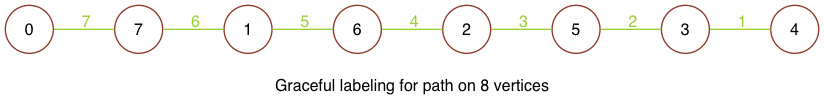
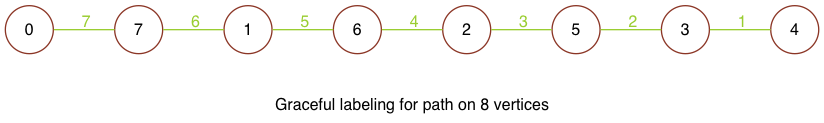
Update k-ary render and add it to README

Changed region(s): [[0.0, 0.0288, 1.0, 0.5192], [0.3337, 0.75, 0.6675, 0.9231]]

diff --git a/render_tree_images.rb b/render_tree_images.rb
@@ -1,21 +1,10 @@
-require_relative 'tree'
-require_relative 'k_ary_tree'
-require_relative 'symmetric_star'
-require_relative 'firecracker_tree'
-require_relative 'star_tree'
-require_relative 'path_tree'
+require_relative 'trees'
 
 
 # labeling = [0, 7, 14, 11, 8, 4, 1, 2, 3, 5, 6, 9, 10, 12, 13]
-# tree = K_aryTree.build(depth: 3, labeling: labeling)
-# tree.render(name: "_graceful", label: "\nGraceful labeling")
+# btree = K_aryTree.build(depth: 3, vdegree: 2, labeling: labeling)
+# btree.render(name: "_graceful", label: "\nGraceful labeling")
 
-
-# btree = K_aryTree.graceful_btree_labelings(3)
-# btree.each do |l|
-#   tree = K_aryTree.build(depth: 3, labeling: l)
-#   tree.render(name: "_graceful", label: "\nGraceful labeling")
-# end
 
 # size = 3
 # labelings = Tree.distinct_labelings(size)
@@ -24,11 +13,18 @@ require_relative 'path_tree'
 
 # Tree.render_all_trees(4)
 
+# SymmetricStar.build(legs: 6, depth: 3).render
+#
 # Star.build(vertices: 8).render
+#
+# Path.build(vertices: 8).render
+#
+# Firecracker.build(path_length: 4, star_vertices: 3).render
 
-Path.build(vertices: 8).render
+# depth, vdegree = 3, 3
+# labeling = (0...(depth ** (vdegree + 1) - 1) / (vdegree - 1)).to_a
+# K_aryTree.build(depth: depth, vdegree: vdegree, labeling: labeling).render
 
-Firecracker.build(path_length: 4, star_vertices: 3).render
-
-
-K_aryTree.build(depth: 2, vdegree: 3, labeling: (0..12).to_a).render
+depth, vdegree = 4, 2
+labeling = (0...31).to_a
+K_aryTree.build(depth: depth, vdegree: vdegree, labeling: labeling).render

diff --git a/symmetric_star.rb b/symmetric_star.rb
@@ -1,6 +1,6 @@
 require_relative 'tree'
 require_relative 'symmetric_star_labeling'
-require 'colorize'
+# require 'colorize'
 
 
 # Theorem: All symmetric star trees are graceful.
@@ -11,8 +11,8 @@ class SymmetricStar < Tree
 
   def self.build(options)
     tree = SymmetricStar.new(options)
-    # labeling = SymmetricStarLabeling.new(tree.legs, tree.depth)
-    labeling = SymmetricStarLabeling.new(options[:legs], options[:depth])
+    labeling = SymmetricStarLabeling.new(tree.legs, tree.depth)
+    # labeling = SymmetricStarLabeling.new(options[:legs], options[:depth])
     labeling.vlabels.each do |labels|
       tree.root.children << SymmetricStar.build_path(labels)
     end
@@ -24,11 +24,10 @@ class SymmetricStar < Tree
     p "already labeled on ::build"
   end
 
-  def render
-    super(
-      label: "\nGraceful labeling",
-      name: "#{legs}#{depth}_symmetric_star"
-    )
+  def render(options = {})
+    options[:name]  ||= "#{legs}#{depth}_symmetric_star"
+    options[:label] ||= "\n\nGraceful labeling"
+    super(options)
   end
 
   def self.build_path(labels)

diff --git a/labeling.rb b/labeling.rb
@@ -1,7 +1,11 @@
 module K_aryLabeling
 
-  def distinct_labelings(depth)
-    (0...2 ** (depth + 1) - 1).to_a.permutation.to_a
+  def distinct_labelings(depth, vdegree)
+    basic_labeling.to_a.permutation.to_a
+  end
+
+  def basic_labeling(depth, vdegree)
+    (0...(depth ** (vdegree + 1) - 1) / (vdegree - 1)).to_a
   end
 
   def graceful_btree_labelings(depth)
@@ -35,18 +39,18 @@ module FirecrackerLabeling
     labels = []
 
     k.times do |i|
-      label = i.even? ? i / 2 * m : (k - (i + 1) / 2) * m
+      label = i.even?  ?  i / 2 * m  :  (k - (i + 1) / 2) * m
       labels << label
     end
 
     k.times do |i|
-      label = i.even? ? (k - i / 2) * m - 1 : (i + 1) / 2 * m - 1
+      label = i.even?  ?  (k - i / 2) * m - 1  :  (i + 1) / 2 * m - 1
       labels << label
     end
 
     k.times do |i|
       (2...m).each do |j|
-        label = i.even? ? j + i / 2 * m - 1 : j + (k - (i + 1) / 2) * m - 1
+        label = i.even?  ?  j + i / 2 * m - 1  :  j + (k - (i + 1) / 2) * m - 1
         labels << label
       end
     end

diff --git a/k_ary_tree.rb b/k_ary_tree.rb
@@ -1,7 +1,4 @@
-require_relative 'tree'
-require_relative 'symmetric_star_labeling'
-require_relative 'labeling'
-require 'graph'
+require_relative 'trees'
 
 
 class K_aryTree < Tree
@@ -19,7 +16,7 @@ class K_aryTree < Tree
 
   def render(options = {})
     custom_name = options[:name] || ""
-    options[:name]  ||= "btree_depth_#{depth}#{custom_name}"
+    options[:name] = "#{vdegree}_tree_depth_#{depth}#{custom_name}"
     options[:label] ||= ""
     super(options)
   end
@@ -27,14 +24,9 @@ class K_aryTree < Tree
   def self.build_children(node, vdegree, depth)
     return if depth == 0
 
-
     children = (1..vdegree).map { |i| Node.new }
     node.children = children
     children.map { |child| K_aryTree.build_children(child, vdegree, depth - 1) }
-    # node1, node2 = [Node.new, Node.new]
-    # node.children = [node1, node2]
-    # [K_aryTree.build_children(node1, depth - 1),
-    #  K_aryTree.build_children(node2, depth - 1)]
   end
 
   def initialize(options)

diff --git a/tree.rb b/tree.rb
@@ -82,24 +82,24 @@ class Tree
 
     GraphViz.graph( :G ) do |graph|
       graphviz_data(graph, "")
-      graph[:label] = graph_label
+      graph[:label]   = graph_label
       graph[:rankdir] = options[:rankdir] || :TB
       graph.output(png: "graph_images/#{filename}.png")
     end
   end
 
   def label_nodes(labeling = [])
-    p labeling
-    p nodes
     if labeling.empty?
       nodes.each_with_index { |node, idx| node.label = idx }
     else
       raise ArgumentError.new(
-        "number of labels doesn't match the number of nodes"
+        "number of labels doesn't match number of nodes"
       ) unless nodes.count == labeling.length
 
       nodes.zip(labeling).each { |node, label| node.label = label }
     end
+
+    nil
   end
 
   def nodes
@@ -137,7 +137,7 @@ class Tree
   end
 
   def inspect
-    inspect_node root
+    inspect_node(root)
   end
 
   def inspect_node(node)

diff --git a/firecracker_tree.rb b/firecracker_tree.rb
@@ -1,9 +1,4 @@
-require_relative 'tree'
-require_relative 'star_tree'
-require_relative 'path_tree'
-require_relative 'symmetric_star'
-require_relative 'labeling'
-require 'graph'
+require_relative 'trees'
 
 
 # Definition: A firecracker F is a tree consisting of a path P(F) and a
@@ -45,8 +40,8 @@ class Firecracker < Tree
   end
 
   def render(options = {})
-    options[:name] ||= "firecracker_#{path_length}#{star_vertices}"
-    options[:label] ||= "\nGraceful F(#{path_length}, #{star_vertices}) labeling"
+    options[:name]  ||= "firecracker_#{path_length}#{star_vertices}"
+    options[:label] ||= "Graceful F(#{path_length}, #{star_vertices}) labeling"
     super(options)
   end
 

diff --git a/symmetric_star_labeling.rb b/symmetric_star_labeling.rb
@@ -34,10 +34,10 @@ class SymmetricStarLabeling
   generate_labels :vlabels, :elabels
 
   def vlabel(j, i)
-    i.even?  ?  n * (j - 1) + i / 2  :  n * (m - j) + (n - (i - 1) / 2)
+    i.even?   ?   n * (j - 1) + i / 2   :   n * (m - j) + (n - (i - 1) / 2)
   end
 
   def elabel(j, i)
-    i == 1  ?  n * (m - j + 1)  :  (n * (m - 2 * j + 2) - (i - 1)).abs
+    i == 1   ?   n * (m - j + 1)   :   (n * (m - 2 * j + 2) - (i - 1)).abs
   end
 end

diff --git a/path_tree.rb b/path_tree.rb
@@ -19,8 +19,8 @@ class Path < Tree
   end
 
   def render(options = {})
-    options[:name] ||= "path_#{vertices}v"
-    options[:label] ||= "\nGraceful labeling for path on #{vertices} vertices"
+    options[:name]  ||= "path_#{vertices}v"
+    options[:label] ||= "\n\nGraceful labeling for path on #{vertices} vertices"
     options[:rankdir] = :LR
     super(options)
   end

diff --git a/star_tree.rb b/star_tree.rb
@@ -13,8 +13,8 @@ class Star < Tree
   end
 
   def render(options = {})
-    options[:name] ||= "star_#{vertices}v"
-    options[:label] ||= "\nGraceful #{vertices}-star labeling"
+    options[:name]  ||= "star_#{vertices}v"
+    options[:label] ||= "\n\nGraceful #{vertices}-star labeling"
     super(options)
   end
 

diff --git a/trees.rb b/trees.rb
@@ -1,0 +1,7 @@
+require_relative 'tree'
+require_relative 'k_ary_tree'
+require_relative 'symmetric_star'
+require_relative 'firecracker_tree'
+require_relative 'star_tree'
+require_relative 'path_tree'
+require 'graph'

diff --git a/README.md b/README.md
@@ -124,13 +124,16 @@ Example:
 ```ruby
 # this is a graceful labeling for a k_ary tree on 15 nodes
 labeling = [0, 7, 14, 11, 8, 4, 1, 2, 3, 5, 6, 9, 10, 12, 13]
-btree = K_aryTree.build(depth: 3, labeling: labeling)
+btree = K_aryTree.build(depth: 3, vdegree: 2, labeling: labeling)
 btree.render(name: "_graceful", label: "\nGraceful labeling")
 ```
 
 &nbsp;&nbsp;&nbsp;&nbsp;&nbsp;&nbsp;&nbsp;&nbsp;&nbsp;&nbsp;&nbsp;&nbsp;&nbsp;&nbsp;&nbsp;&nbsp;&nbsp;&nbsp;&nbsp;&nbsp;&nbsp;&nbsp;&nbsp;&nbsp;&nbsp;&nbsp;&nbsp;&nbsp;&nbsp;&nbsp;&nbsp;&nbsp;&nbsp;&nbsp;&nbsp;<img src="graph_images/btree_depth_3_graceful.png" width="300">
 
-### K_ary Tree
+<img src="graph_images/2_tree_depth_4.png" width="500">
+
+<img src="graph_images/btree_depth_3.png">
+
 
 ### Firecracker Tree
 
